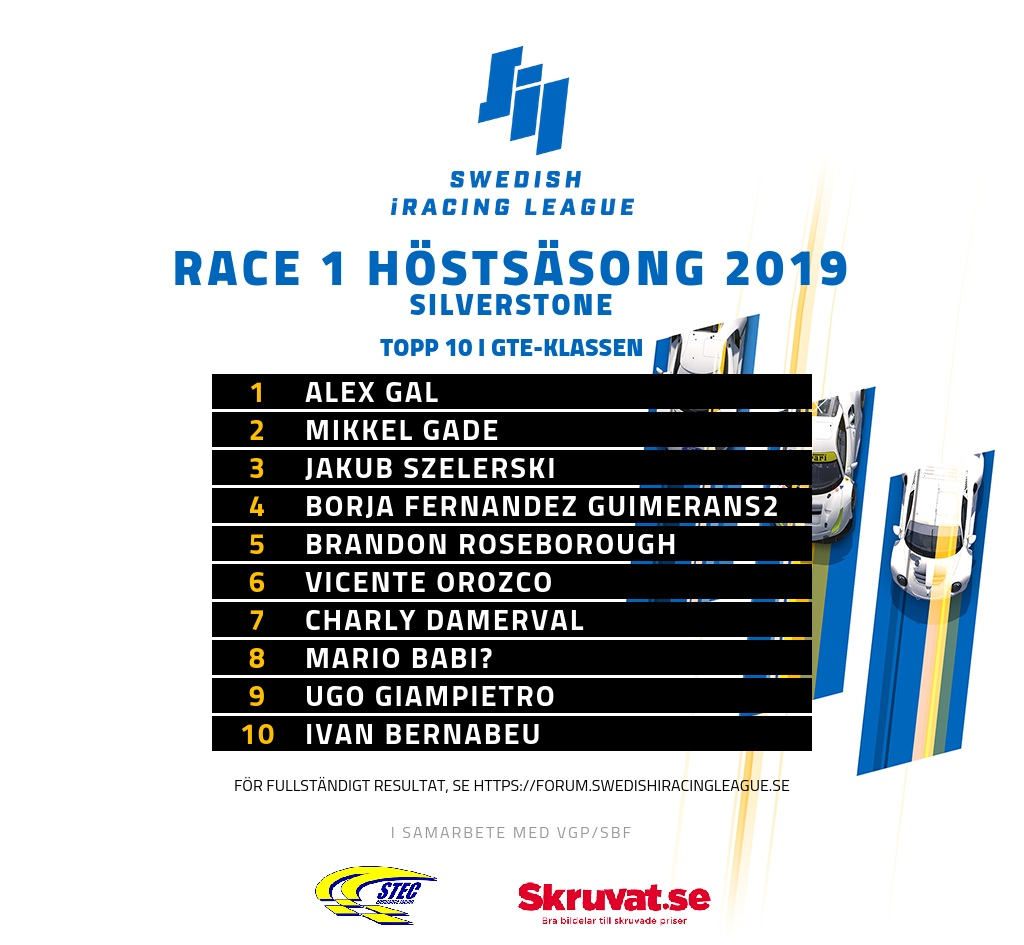
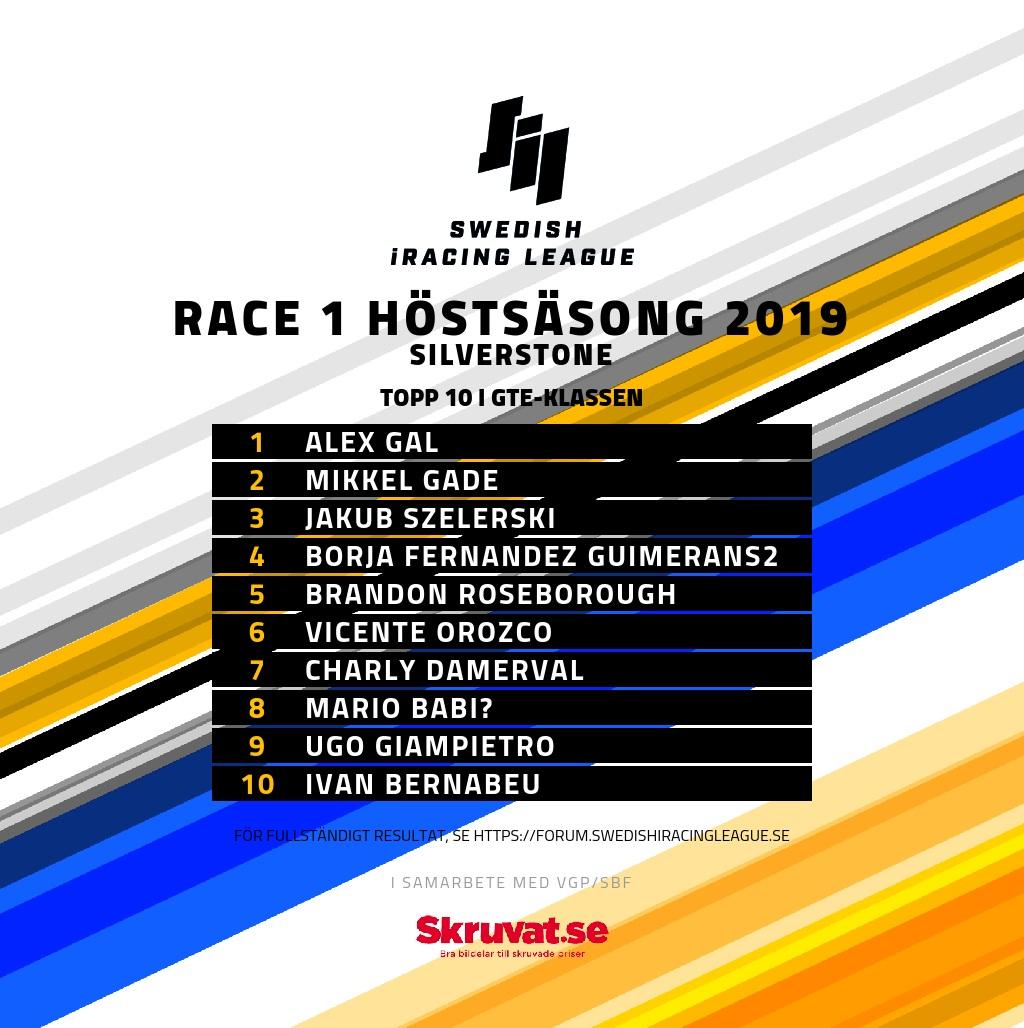
Updated styling for new season Updated example in readme

diff --git a/app/template.html b/app/template.html
@@ -9,13 +9,14 @@
     <style>
         body {
             background: url('images/bg.png');
-            background-position: bottom right;
+            background-position: top;
             background-repeat: no-repeat;
             background-color: white;
             background-size: cover;
             text-align: center;
             text-transform: uppercase;
             font-family: Cairo,sans-serif;
+            padding: 50px 0;
         }
 
         .lead-image {
